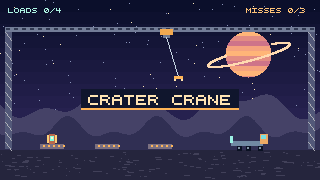
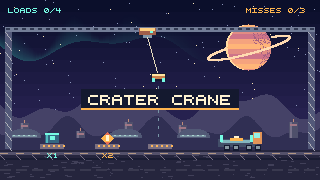
Run overdrive core deliveries through a neon lunar freight yard

diff --git a/crater-crane/art.js b/crater-crane/art.js
@@ -1,5 +1,5 @@
 import { drawText } from '../solar-kite/src/font.js';
-import { bins, hook, rover } from './shift.js';
+import { bins, hook, rover, hotBin, hoistTime } from './shift.js';
 
 const backdrop = document.createElement('canvas');
 backdrop.width = 320;
@@ -20,15 +20,33 @@ for (let y=0;y<180;y++) {
 let seed=72;
 function random() { seed=seed*16807%2147483647; return seed/2147483647; }
 for(let i=0;i<130;i++) box(sky,random()*320,random()*112,1,1,i%5?'#8b95ba':'#ffe9bd');
+// A distant auroral curtain. All terrain, atmospheric light and masonry are baked once.
+for (let x=0; x<216; x++) {
+  const crest = 46 + 10*Math.sin(x*.038) + 7*Math.sin(x*.067);
+  const height = 8 + Math.round(12*(1+Math.sin(x*.11)));
+  for (let y=0; y<height; y++) {
+    sky.globalAlpha = .28*(y/height)**2*(1-x/216);
+    box(sky,x,crest-height+y,1,1,'#43edce');
+  }
+}
+sky.globalAlpha=1;
 // Banded gas giant and a ring crossing in front of its lower hemisphere.
 for(let y=-23;y<=23;y++) {
   const w=Math.floor(Math.sqrt(23*23-y*y));
-  box(sky,248-w,54+y,2*w+1,1,['#ffb578','#e28c83','#ce7489','#f5a37e'][Math.floor((y+23)/5)%4]);
+  box(sky,248-w,47+y,2*w+1,1,['#ffb578','#e28c83','#ce7489','#f5a37e'][Math.floor((y+23)/5)%4]);
+}
+for (let y=-22; y<=22; y++) {
+  const w=Math.floor(Math.sqrt(23*23-y*y));
+  for(let x=-w; x<=w; x++) {
+    const shade=(x+23)/46;
+    if(x>8+4*Math.sin(y*.13) && random()<shade*.3) box(sky,248+x,47+y,1,1,'#a46081');
+    if(x < -w+2) box(sky,248+x,47+y,1,1,'#ffdaa0');
+  }
 }
 for(let i=0;i<720;i++) {
   const a=i*Math.PI/360, x=41*Math.cos(a), y=6*Math.sin(a);
   if(Math.sin(a)<0 && x*x+y*y<23*23) continue;
-  box(sky,248+x,54+y-x*.26,2,2,'#ffdab0');
+  box(sky,248+x,47+y-x*.26,2,2,'#ffdab0');
 }
 for(let x=0;x<320;x++) {
   const h=Math.round(105+10*Math.sin(x*.045)+6*Math.sin(x*.11));
@@ -38,6 +56,25 @@ for(let x=0;x<320;x++) {
 }
 box(sky,0,150,320,30,'#25253d');
 for(let i=0;i<150;i++) box(sky,random()*320,152+random()*26,1+Math.floor(random()*6),1,'#414059');
+// Pressure domes, striped refinery stacks and the freight line beneath the deck.
+for (const x of [20,76,124,178,289]) {
+  const h=7+Math.floor(random()*11);
+  box(sky,x,138-h,9,h,'#4f506b'); box(sky,x+1,138-h,2,h,'#77718a');
+  box(sky,x+1,140-h,7,2,'#a17785'); box(sky,x+4,135-h,1,3,'#c28d77');
+}
+for (const x of [24,125,193]) {
+  for(let y=0;y<9;y++) {
+    const w=Math.round(Math.sqrt(81-(8-y)**2)*1.8);
+    box(sky,x-w,129+y,w*2+1,1,'#525976');
+  }
+  box(sky,x-13,135,26,2,'#788fa0');
+  for(let j=-11;j<13;j+=5) box(sky,x+j,135,2,1,'#abd6cf');
+}
+box(sky,0,152,320,3,'#54516a'); box(sky,0,158,320,2,'#191c32');
+for(let x=0;x<320;x+=16) {
+  box(sky,x,153,8,1,'#b49883'); line(sky,x,155,x+4,159,'#797083');
+  box(sky,x,169,11,2,'#39394f');
+}
 for (const x of [5,308]) {
   box(sky,x,29,7,120,'#535979');
   for(let y=32;y<143;y+=10) line(sky,x,y,x+6,y+8,'#afb0b8');
@@ -48,30 +85,92 @@ for(const x of bins) {
   box(sky,x-12,144,24,5,'#7b7080');
   for(let j=-9;j<12;j+=5) box(sky,x+j,145,2,2,'#ffb557');
 }
-function cell(g,x,y) {
-  box(g,x-5,y-4,10,8,'#ffd078'); box(g,x-3,y-5,6,10,'#b86a4c');
-  box(g,x-2,y-3,4,5,'#87ffdf'); box(g,x-1,y-2,2,2,'#fff5cc');
+const cyan='#76fbe4', amber='#ffb54f', white='#fff3d0', dark='#14192f';
+function cell(g,x,y,hot) {
+  if(hot) {
+    for(let i=-6;i<=6;i++) {
+      const half=6-Math.abs(i);
+      box(g,x-half,y+i,half*2+1,1,Math.abs(i)>3?'#e56e51':amber);
+    }
+    box(g,x-1,y-3,3,6,white);
+  } else {
+    box(g,x-7,y-5,14,10,'#346782'); box(g,x-7,y-5,14,2,cyan);
+    box(g,x-6,y-3,2,8,'#51b7bc'); box(g,x-2,y-2,5,4,cyan);
+  }
 }
-export function draw(g,s,title,paused) {
+function payoff(g,e,age,reduced) {
+  if(!e || age>.85) return;
+  const color=e.credit===2?amber:cyan;
+  if(!reduced && e.kind!=='miss') {
+    const count=e.kind==='land'?16:8;
+    for(let i=0;i<count;i++) {
+      const angle=Math.PI*(i+.5)/count;
+      const speed=22+(i%4)*10;
+      const x=e.x+Math.cos(angle)*speed*age;
+      const y=139-Math.sin(angle)*speed*age+26*age*age;
+      if(y<147) box(g,x,y,age<.3?3:2,2,i%3?color:white);
+    }
+    if(e.kind==='catch' && age<.27) {
+      const r=6+Math.round(30*age);
+      for(const side of [-1,1]) {
+        line(g,e.x+side*r,137,e.x+side*(r+3),132,color);
+        line(g,e.x+side*(r+3),132,e.x+side*(r-1),133,white);
+      }
+    }
+    if(e.kind==='land' && age<.5) {
+      const span=Math.round(10+age*75);
+      box(g,e.x-span,149,8,2,color); box(g,e.x+span-8,149,8,2,color);
+    }
+  }
+  if(e.kind==='land') {
+    const y=reduced?116:120-Math.round(age*13);
+    const label=e.credit===2?'CORE +2':'+1';
+    box(g,e.x-label.length*3-3,y-3,label.length*6+5,11,dark);
+    drawText(g,label,e.x-label.length*3,y,color);
+  }
+}
+export function draw(g,s,title,paused,reduced) {
   g.drawImage(backdrop,0,0);
-  const rx=rover(s), hx=hook(s), lowering=s.phase==='lower';
-  const tip=lowering?s.drop.x:hx, y=lowering?s.drop.y:76;
+  const rx=rover(s), hx=hook(s);
+  const lowering=s.phase==='lower', hoisting=s.phase==='hoist';
+  const lift=hoisting?Math.min(1,(s.time-s.event.time)/hoistTime):1;
+  const tip=lowering?s.drop.x:hoisting?s.event.x+(hx-s.event.x)*lift:hx;
+  const y=lowering?s.drop.y:hoisting?137-61*lift:76;
   const rail=lowering?tip:158+120*Math.sin(s.time*(.95+s.loads*.09)-.09);
-  box(g,rail-6,29,13,6,'#f2a950'); box(g,rail-3,35,7,3,'#727b92');
-  line(g,rail,37,tip,y,'#c6d4e2');
-  box(g,tip-4,y,9,3,'#ffb557'); box(g,tip-4,y+3,2,2,'#ffe1ad'); box(g,tip+3,y+3,2,2,'#ffe1ad');
-  if(s.phase==='carry') cell(g,tip,y+8);
-  else if(s.phase==='fall') cell(g,s.drop.x,s.drop.y);
-  else cell(g,bins[s.cargo],139);
-  box(g,rx-15,141,32,5,'#7189a3'); box(g,rx-16,136,3,7,'#9cf1e5'); box(g,rx+14,134,8,10,'#edab66');
-  box(g,rx+15,135,5,4,'#79e1e4');
-  for(const dx of [-9,0,12]) {box(g,rx+dx,146,5,5,'#0b1123'); box(g,rx+dx+1,147,2,2,'#8495a7');}
-  if(title || paused || ['win','lost'].includes(s.phase)) {
+  const carrying=hoisting || s.phase==='carry' || s.phase==='fall';
+  const tint=carrying && s.hot?amber:cyan;
+  for(let gy=Math.ceil(y+10);gy<139;gy+=8) box(g,tip,gy,1,3,'#7794a5');
+  box(g,rail-8,28,17,7,'#a15f4a'); box(g,rail-7,28,15,3,'#ffd082');
+  box(g,rail-4,35,9,3,'#8297a9'); box(g,rail+3,31,3,2,cyan);
+  line(g,rail,37,tip,y,'#e8dcbe');
+  box(g,tip-7,y-3,15,8,dark);
+  box(g,tip-6,y-2,13,5,'#c9814d'); box(g,tip-6,y-2,13,2,'#ffe3a1');
+  box(g,tip-6,y+2,3,4,tint); box(g,tip+4,y+2,3,4,tint);
+  for(const hot of [false,true]) {
+    const x=hot?hotBin(s):bins[s.cargo];
+    if(carrying && s.hot===hot) continue;
+    cell(g,x,138,hot);
+    drawText(g,hot?'X2':'X1',x-5,153,hot?amber:cyan);
+  }
+  if(hoisting || s.phase==='carry') cell(g,tip,y+7,s.hot);
+  if(s.phase==='fall') {
+    if(!reduced) box(g,s.drop.x-1,s.drop.y-14,3,11,s.hot?'#d87548':'#449fa4');
+    cell(g,s.drop.x,s.drop.y,s.hot);
+  }
+  box(g,rx-18,139,39,8,'#434f69'); box(g,rx-15,140,29,3,'#84b6bf');
+  box(g,rx-16,135,3,7,cyan); box(g,rx+14,135,3,7,cyan);
+  box(g,rx-6,138,13,3,amber); box(g,rx-2,136,5,2,white);
+  box(g,rx+17,132,9,12,'#e39457'); box(g,rx+18,133,6,5,'#94efe6');
+  for(const dx of [-12,-3,10,19]) {
+    box(g,rx+dx,145,6,6,dark); box(g,rx+dx+1,146,4,3,'#8896a2');
+  }
+  if(s.event) payoff(g,s.event,s.time-s.event.time,reduced);
+  if(title || paused || s.phase==='win' || s.phase==='lost') {
     const label=title?'CRATER CRANE':paused?'PAUSED':s.phase==='win'?'SHIFT COMPLETE':'SHIFT OVER';
     const w=label.length*12+14;
-    box(g,(320-w)/2,89,w,21,'#10162d'); box(g,(320-w)/2,108,w,2,'#ffb557');
-    drawText(g,label,Math.round((320-label.length*12)/2),95,'#ffe4b2',2);
+    box(g,(320-w)/2,89,w,21,dark); box(g,(320-w)/2,108,w,2,amber);
+    drawText(g,label,Math.round((320-label.length*12)/2),95,white,2);
   }
-  drawText(g,'LOADS '+s.loads+'/4',8,8,'#aff5e4');
-  drawText(g,'MISSES '+s.misses+'/3',246,8,'#ffc378');
+  drawText(g,'LOADS '+s.loads+'/4',8,8,cyan);
+  drawText(g,'MISSES '+s.misses+'/3',246,8,amber);
 }

diff --git a/crater-crane/shift.js b/crater-crane/shift.js
@@ -1,41 +1,52 @@
-// World coordinates match the pixels of the yard. The crane runs on its own rail.
+// World coordinates match the pixels of the yard.
 export const bins = [52, 107, 160];
+export const hoistTime = 0.36;
+export const hotSocket = 6;
+
 export function newShift() {
-  return { time: 0, phase: 'seek', cargo: 0, loads: 0, misses: 0, drop: null, note: '' };
+  return { time: 0, phase: 'seek', cargo: 0, loads: 0, misses: 0, hot: false,
+    drop: null, event: null, note: '' };
 }
-export function hook(s) {
-  return 158 + 126 * Math.sin(s.time * (0.95 + s.loads * 0.09));
-}
-export function rover(s) {
-  return 236 + 48 * Math.sin(s.time * 1.25);
-}
+export function hotBin(s) { return bins[(s.cargo + 1) % bins.length]; }
+export function hook(s) { return 158 + 126 * Math.sin(s.time * (0.95 + s.loads * 0.09)); }
+export function rover(s) { return 236 + 48 * Math.sin(s.time * 1.25); }
+
 export function act(s) {
-  if (s.phase === 'seek') {
+  if (s.phase === 'seek' || s.phase === 'carry') {
     s.drop = { x: hook(s), y: 80 };
-    s.phase = 'lower';
-  } else if (s.phase === 'carry') {
-    s.drop = { x: hook(s), y: 80 };
-    s.phase = 'fall';
+    s.phase = s.phase === 'seek' ? 'lower' : 'fall';
   }
 }
 export function step(s, dt) {
   s.time += dt;
+  if (s.phase === 'hoist') {
+    if (s.time - s.event.time >= hoistTime) s.phase = 'carry';
+    return;
+  }
   if (s.phase !== 'lower' && s.phase !== 'fall') return;
   const lifting = s.phase === 'lower';
   s.drop.y += dt * (lifting ? 165 : 130);
   if (s.drop.y < (lifting ? 137 : 141)) return;
-  if (lifting && Math.abs(s.drop.x - bins[s.cargo]) <= 10) {
-    s.phase = 'carry';
-    s.note = 'Cell secured.';
-  } else if (!lifting && Math.abs(s.drop.x - rover(s)) <= 15) {
-    s.loads++;
-    s.cargo = s.loads % bins.length;
+  const x = s.drop.x;
+  if (lifting) s.hot = Math.abs(x - hotBin(s)) <= 5;
+  if (lifting && (s.hot || Math.abs(x - bins[s.cargo]) <= 10)) {
+    s.phase = 'hoist';
+    s.event = { kind: 'catch', x, time: s.time };
+    s.note = s.hot ? 'Overdrive cell secured.' : 'Cargo secured.';
+  } else if (!lifting && Math.abs(x - rover(s)) <= (s.hot ? hotSocket : 15)) {
+    const credit = s.hot ? 2 : 1;
+    s.event = { kind: 'land', x, credit, time: s.time };
+    s.loads = Math.min(4, s.loads + credit);
+    s.cargo = (s.cargo + 1) % bins.length;
     s.phase = s.loads === 4 ? 'win' : 'seek';
-    s.note = 'Freight received.';
+    s.note = s.hot ? 'Core docked! Two loads.' : 'Freight received.';
+    s.hot = false;
   } else {
     s.misses++;
     s.phase = s.misses === 3 ? 'lost' : 'seek';
-    s.note = lifting ? 'Empty hook.' : 'Missed the rover.';
+    s.note = lifting ? 'Empty hook.' : s.hot ? 'Core missed the center socket.' : 'Missed the rover.';
+    s.event = { kind: 'miss', x, time: s.time };
+    s.hot = false;
   }
   s.drop = null;
 }

diff --git a/crater-crane/play.js b/crater-crane/play.js
@@ -2,6 +2,7 @@ import { bleed } from '../solar-kite/src/bleed.js';
 import { act, newShift, step } from './shift.js';
 import { draw } from './art.js';
 
+const motion = matchMedia('(prefers-reduced-motion: reduce)');
 const canvas=document.querySelector('#game');
 const ctx=canvas.getContext('2d');
 const action=document.querySelector('#action');
@@ -12,14 +13,14 @@ function sync() {
   const ended=shift.phase==='win' || shift.phase==='lost';
   pause.disabled=title || ended;
   pause.textContent=paused?'Resume':'Pause';
-  action.disabled=paused || shift.phase==='lower' || shift.phase==='fall';
+  action.disabled=paused || shift.phase==='lower' || shift.phase==='hoist' || shift.phase==='fall';
   action.textContent=title?'Start shift':ended?'New shift':shift.phase==='carry'?'Release cell':'Lower magnet';
   const hints={
-    seek:'Lower over the glowing cell.', lower:'Magnet descending…',
-    carry:'Lead the rover and release.', fall:'Cell falling…',
+    seek:'Cyan crate: 1 load. Amber core: 2, center socket only.', lower:'Magnet descending…',
+    hoist:'Winching up…', carry:shift.hot?'Lead the rover. Aim for its amber socket.':'Lead the rover. Aim inside the cyan rails.', fall:'Cell falling…',
     win:'Four loads delivered. Shift complete!', lost:'Three misses. Shift over.',
   };
-  status.textContent=title?'Space, tap or gamepad A to operate the crane.':paused?'Shift paused.':
+  status.textContent=title?'Tap, Space or gamepad A. Ship four loads.':paused?'Shift paused.':
     [shift.note,hints[shift.phase]].filter(Boolean).join(' ');
 }
 function operate() {
@@ -34,6 +35,7 @@ function operate() {
 function togglePause() {
   if(pause.disabled) return;
   paused=!paused;
+  draw(ctx,shift,title,paused,motion.matches);
   previous=undefined;
   sync();
 }
@@ -54,12 +56,15 @@ function frame(now) {
   padHeld=pressed;
   const dt=Math.min(.05,(now-(previous??now))/1000);
   previous=now;
-  if(!paused && !['win','lost'].includes(shift.phase)) {
+  const ended=shift.phase==='win' || shift.phase==='lost';
+  const settling=ended && shift.time-shift.event.time<.9;
+  if(!paused && (!ended || settling)) {
     const phase=shift.phase;
-    step(shift,dt);
+    if(ended) shift.time+=dt;
+    else step(shift,dt);
     if(phase!==shift.phase) sync();
   }
-  draw(ctx,shift,title,paused);
+  if(!paused && (!ended || settling)) draw(ctx,shift,title,paused,motion.matches);
   requestAnimationFrame(frame);
 }
 sync();

diff --git a/crater-crane/style.css b/crater-crane/style.css
@@ -2,8 +2,8 @@
 html { background:#10152f; color-scheme:dark; color:#fff2d5; font:1rem/1.4 ui-monospace,monospace }
 body { margin:0; background:transparent }
 main { min-height:100svh; display:flex; flex-direction:column; align-items:center; justify-content:center; padding:env(safe-area-inset-top) env(safe-area-inset-right) env(safe-area-inset-bottom) env(safe-area-inset-left) }
-#game { width:min(100%, 160svh, 1280px); height:auto; image-rendering:pixelated; cursor:pointer }
-.panel { text-align:center; padding:0 .6rem .4rem }
+#game { width:min(100%, calc((100svh - 115px) * 1.77), 1280px); height:auto; image-rendering:pixelated; cursor:pointer }
+.panel { width:min(100%, 54rem); text-align:center; padding:0 .6rem .4rem }
 p { margin:.55rem 0; min-height:1.4em }
 button { font:inherit; font-weight:bold; min-height:44px; padding:4px 16px; background:#25305a; border:2px solid #8194be; color:#fff2d5; cursor:pointer }
 #action { border-color:#ffb557 }
@@ -11,3 +11,5 @@ button:disabled { opacity:.55 }
 .bleed { position:fixed; left:0; width:100%; height:110vh; z-index:-1; pointer-events:none; }
 .bleed-top { top:-60vh }
 .bleed-bottom { top:50vh }
+
+@media (max-width: 600px) { #status { min-height:4.2em; display:grid; align-items:center } }

diff --git a/crater-crane/index.html b/crater-crane/index.html
@@ -3,7 +3,7 @@
 <head>
 <meta charset="utf-8">
 <meta name="viewport" content="width=device-width,initial-scale=1,viewport-fit=cover">
-<meta name="description" content="Work the night shift at a lunar freight yard. Snag helium cells with a swinging magnet and drop them into a passing moon rover.">
+<meta name="description" content="Work the night shift at a lunar freight yard. Ship cyan crates or gamble on a double-value reactor core. Lead the rover and hit its center socket.">
 <meta name="interwebs:kind" content="Game">
 <meta name="interwebs:accent" content="#ffb557">
 <title>Crater Crane</title>

diff --git a/crater-crane/README.md b/crater-crane/README.md
@@ -1,7 +1,9 @@
 # Crater Crane
 
-A one-button lunar freight shift. Hit Space, click or tap the yard, or press gamepad A to lower the magnet. Aim at the lit cell. Once it is attached, release it ahead of the passing rover. The crane sweeps faster after each delivery. Four deliveries clear the shift and three misses end it. P or Escape pauses.
+A one-button lunar freight shift. Hit Space, click or tap the yard, or press gamepad A to lower the magnet. Choose a cyan crate for one load anywhere on the rover deck, or an amber diamond for two loads in its narrower center socket. Once it is attached, release it ahead of the passing rover. The crane sweeps faster after each delivery. Four deliveries clear the shift and three misses end it. P or Escape pauses.
 
 Orbit Pond and Solar Kite build an arcade around a familiar activity in an unfamiliar place. Here the player works a freight crane under a ringed planet. The magnet, cell and rover are visible throughout the run. The home card is a native-resolution capture of the title scene. The game uses Solar Kite’s bitmap font and edge treatment.
 
 Run the root site check to play a complete shift through the arcade card and verify the retired Signal Bloom bookmark.
+
+Reduced motion keeps the hoist and drop trajectories visible and uses a stationary score label in place of sparks, trails and the impact wave. The aurora, refinery and terrain are painted into a cached backdrop.
